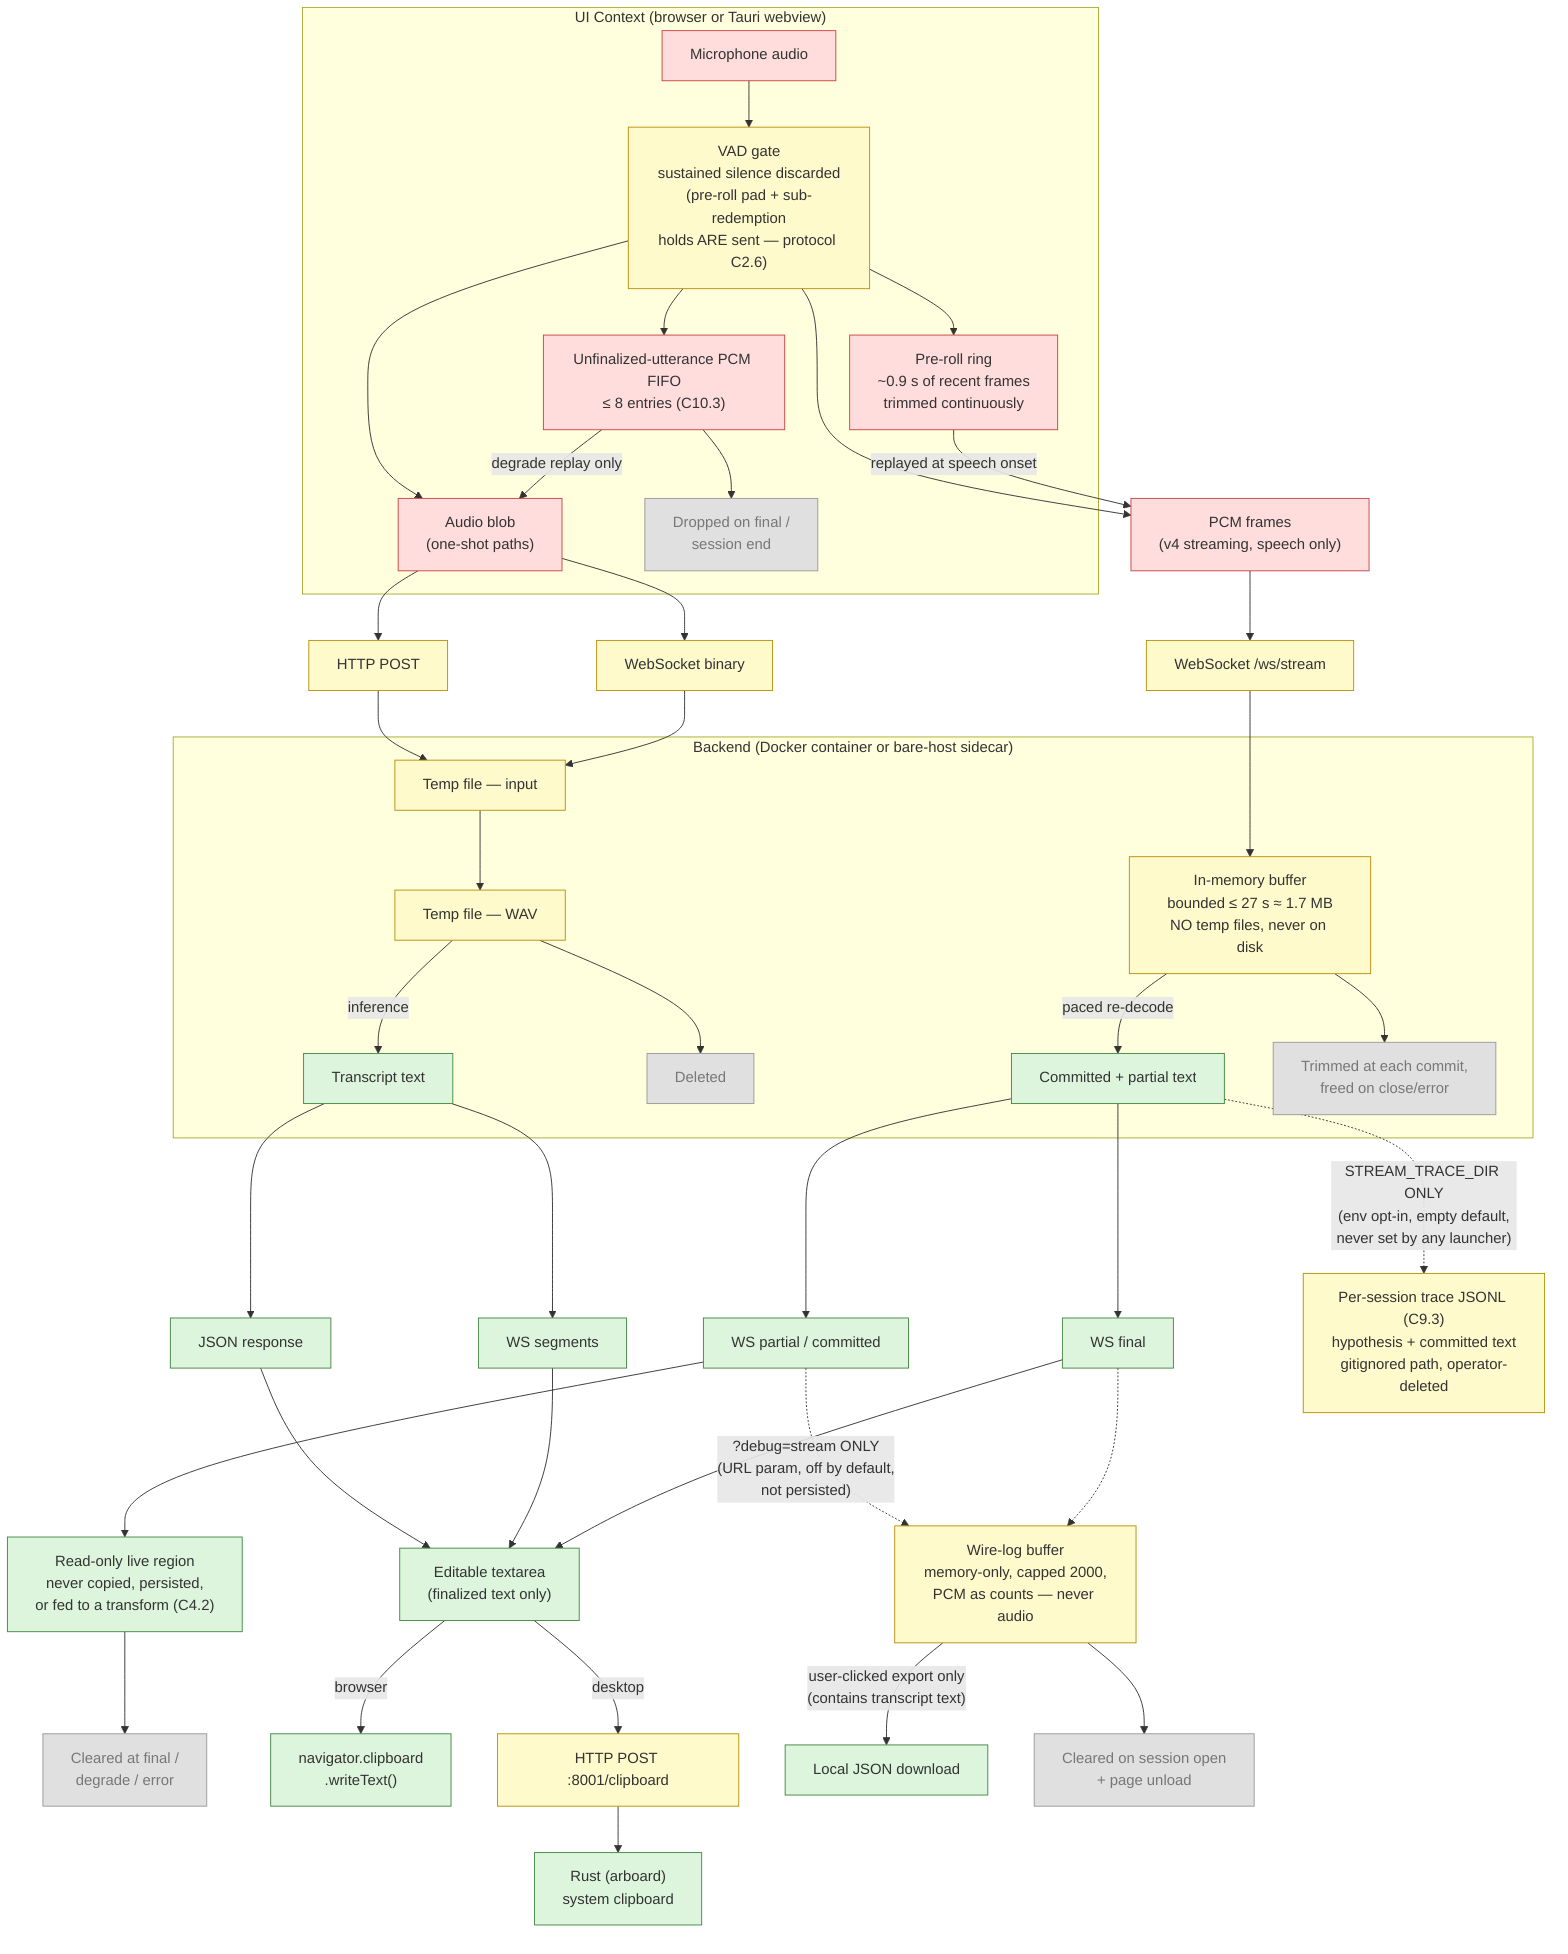
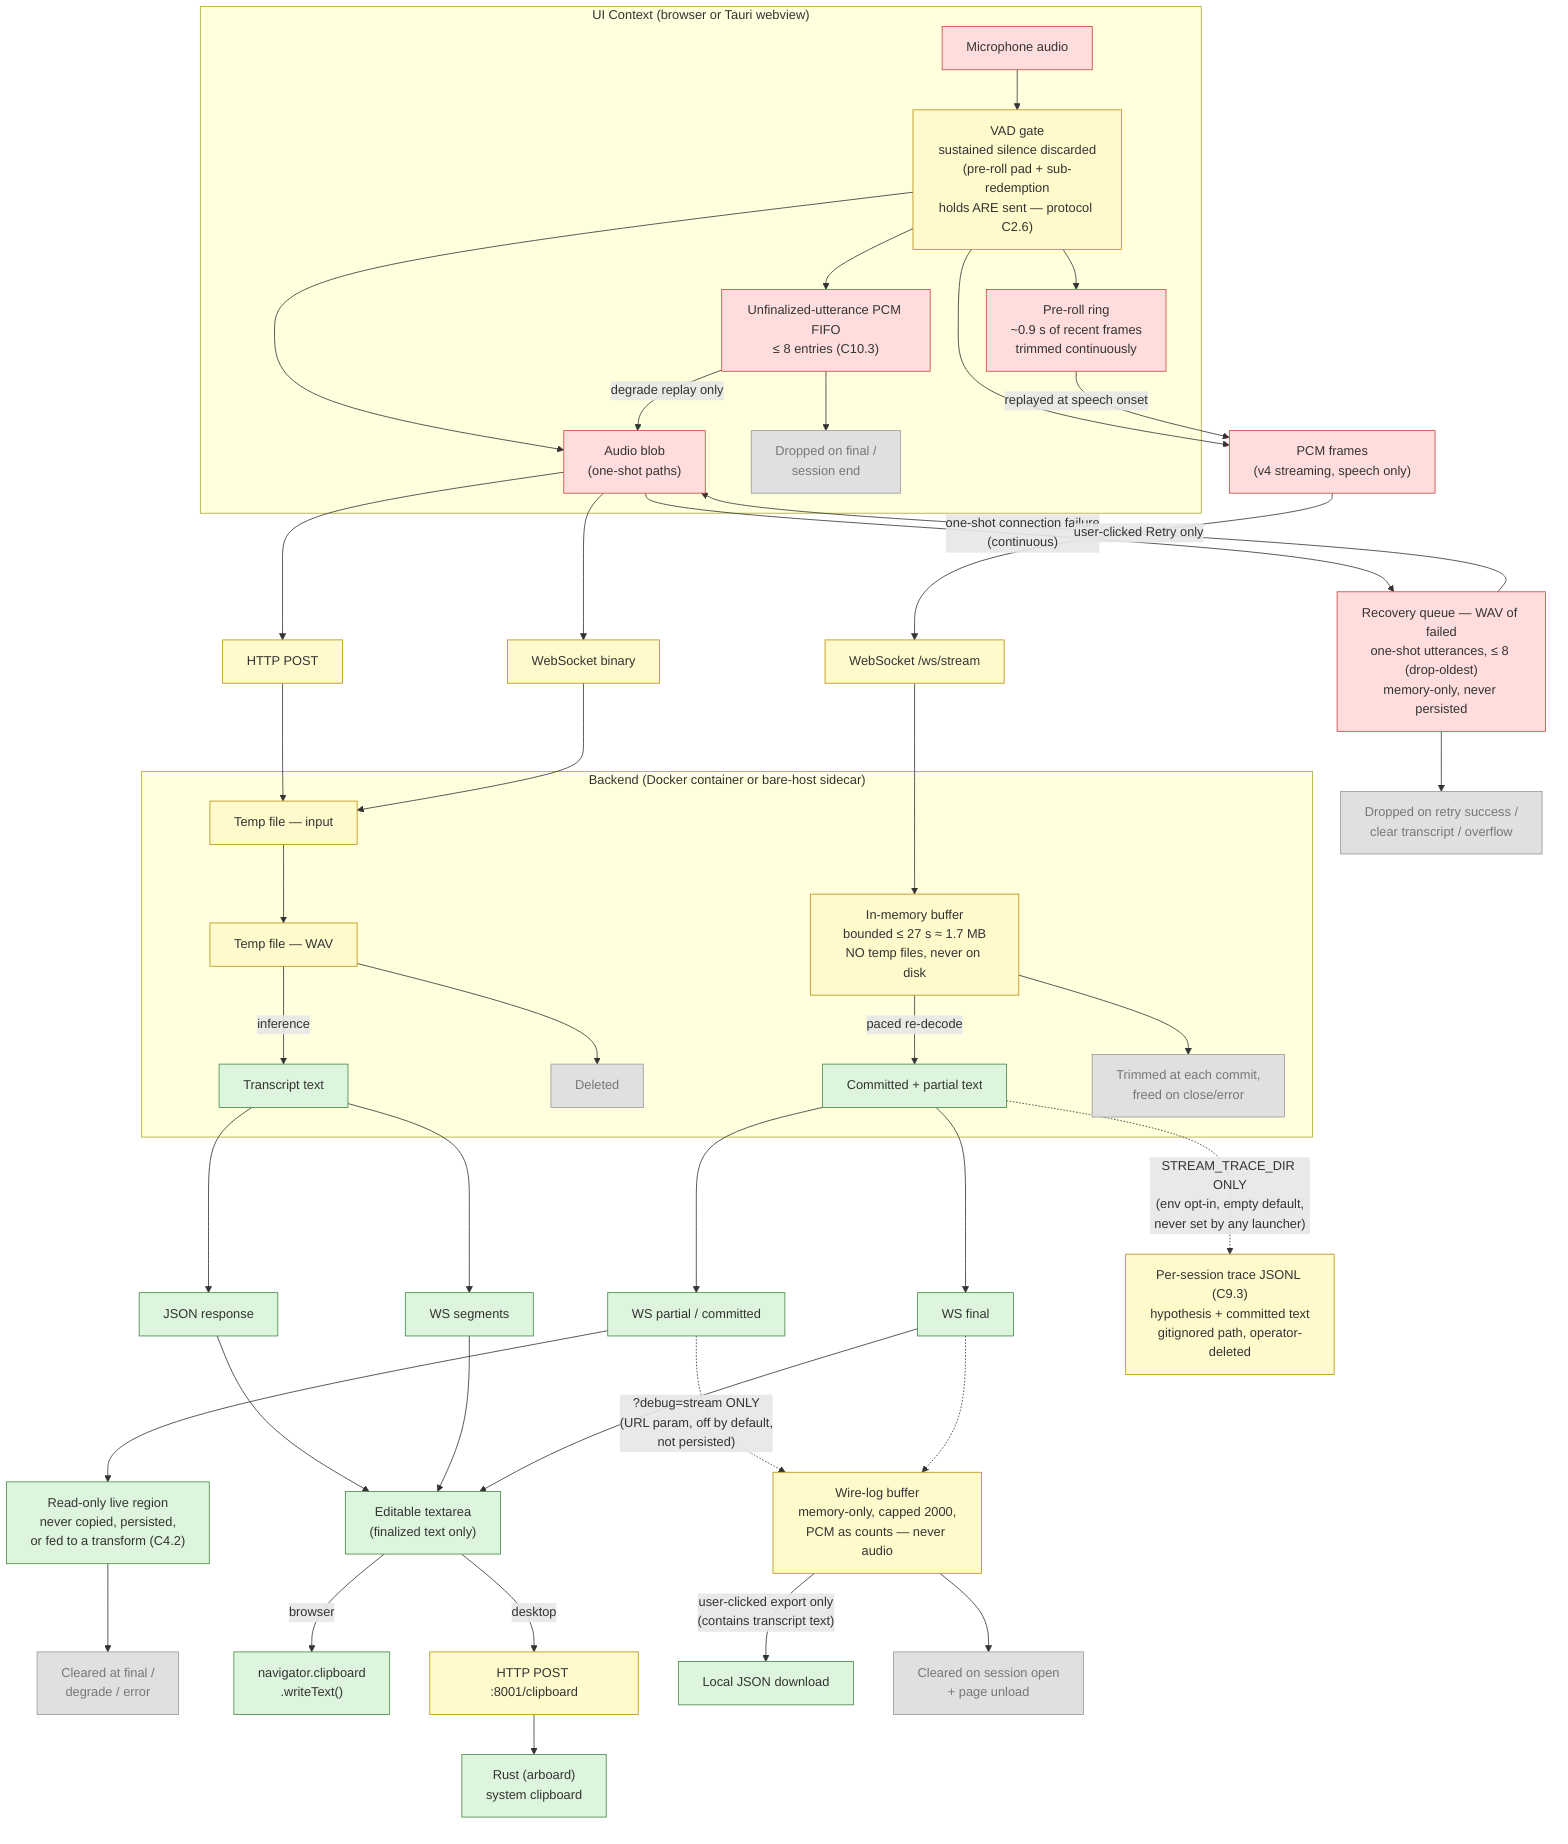
fix(web): recovery queue + retry affordance — no committed text lost on dead-server degrade
The one-shot replay failure branch now queues the utterance WAV (bounded ≤ 8
drop-oldest, same C10.3 cap; queue survives stop/start, empties on retry
success / clear / bound) instead of discarding it, surfaces a non-fatal error,
and returns to listening — 'error' stays reserved for application failures.
Manual retry replays in order; failures self-re-queue. Timestamp clamp stops a
retried old segment from regressing the paragraph-break ref. Diagrams updated
first per project rule (state-machine degrade/retry edges, privacy-data-flow
recovery-queue retention surface). 194→200 frontend tests; healthy-path
degrade pinned against duplication.

diff --git a/apps/web/src/app/App.tsx b/apps/web/src/app/App.tsx
@@ -87,6 +87,16 @@ export function App() {
   const speakingRef = useRef(false);
   const [liveCommitted, setLiveCommitted] = useState("");
   const [liveTail, setLiveTail] = useState("");
+  // Recovery queue (step-3 fix, 2026-08-04 review): WAV of utterances whose
+  // one-shot replay failed — the server may be dead, and this audio is the
+  // only vehicle for the text behind it. Same C10.3 bound as the pending
+  // FIFO (the FIFO is idle while degraded, so total retention stays ≤ 8).
+  // Nothing promotes into the transcript until a transcription succeeds.
+  const recoveryQueueRef = useRef<Array<{ blob: Blob; speechEndTime: number }>>([]);
+  const [recoveryCount, setRecoveryCount] = useState(0);
+  // Live isListening for callbacks that outlive their closure (a retry can
+  // complete after the VAD stopped — landing at "listening" then would lie).
+  const isListeningRef = useRef(false);
 
   // Stable ref to current transcript so "copy" inside
   // triggerTranscription's closure always reads the latest value.
@@ -234,8 +244,12 @@ export function App() {
       // Timestamp update runs after both command and non-command paths.
       // Stores the speech-end time of this segment so the next segment's
       // elapsed comparison measures the gap between when the user spoke,
-      // not between when the GPU finished.
-      lastSegmentTimestampRef.current = speechEndTime ?? Date.now();
+      // not between when the GPU finished. Clamped: a retried recovery
+      // segment carries an old timestamp and must not regress the ref (the
+      // next live utterance would see a spurious paragraph-break gap).
+      lastSegmentTimestampRef.current = Math.max(
+        lastSegmentTimestampRef.current, speechEndTime ?? Date.now()
+      );
 
       if (stateTransition === "none") return;
 
@@ -244,7 +258,10 @@ export function App() {
         stopRequestedRef.current = false;
         setState("done"); // drain complete — explicit stop
       } else if (append) {
-        setState("listening"); // normal cycle — mic stays open
+        // Normal cycle: mic stays open. A retry completing after the VAD
+        // stopped lands at done — "listening" would block the settings gear
+        // with no mic actually running.
+        setState(isListeningRef.current ? "listening" : "done");
       } else {
         setState("done"); // push-to-talk always lands at done
       }
@@ -315,9 +332,26 @@ export function App() {
                 setState("error");
               });
           } else {
-            // Continuous: same error will recur on retry — surface immediately
-            setError("Transcription connection failed");
-            setState("error");
+            // Continuous: queue the WAV for manual retry — against a dead
+            // server the replay has nowhere to land, and this audio is the
+            // only recovery vehicle for its text (step-3 gate line). Bounded
+            // drop-oldest like the C10.3 FIFO. Non-fatal: dictation continues.
+            const queue = recoveryQueueRef.current;
+            queue.push({ blob, speechEndTime: speechEndTime ?? Date.now() });
+            if (queue.length > MAX_PENDING_UTTERANCES) {
+              queue.shift();
+              console.error("[recovery] queue over bound — oldest utterance dropped");
+            }
+            setRecoveryCount(queue.length);
+            setError(
+              "Transcription connection failed — audio saved, retry when the server is back"
+            );
+            if (stopRequestedRef.current) {
+              stopRequestedRef.current = false;
+              setState("done"); // drain "completed" — the text is safe in the queue
+            } else {
+              setState(isListeningRef.current ? "listening" : "done");
+            }
           }
         },
         (detail) => {
@@ -531,6 +565,9 @@ export function App() {
       },
     });
 
+  // Keep the mirror in sync for callbacks that fire after closures go stale.
+  useEffect(() => { isListeningRef.current = isListening; });
+
   // Handle VAD errors
   useEffect(() => {
     if (vadError) {
@@ -576,6 +613,8 @@ export function App() {
       } else {
         // Fresh activation: a new session tries streaming again even after a
         // degraded previous activation (C10.1 — degrade is per session).
+        // recoveryQueueRef is deliberately NOT reset — it holds user speech,
+        // not activation state; it empties on retry success / clear / bound.
         streamDegradedRef.current = false;
         pendingUtterancesRef.current = [];
         outstandingFlushesRef.current = 0;
@@ -648,7 +687,26 @@ export function App() {
     });
     setTranscript("");
     setRawTranscript("");
+    // Clear is the explicit user-discard intent — the privacy-correct
+    // release point for retained recovery audio.
+    recoveryQueueRef.current = [];
+    setRecoveryCount(0);
     setState("idle");
+  }, []);
+
+  const handleRetryRecovery = useCallback(() => {
+    const entries = recoveryQueueRef.current;
+    if (entries.length === 0) return;
+    recoveryQueueRef.current = [];
+    setRecoveryCount(0);
+    setError("");
+    // Burst replay in order — completions arrive in server order (single
+    // GPU), the same assumption the degrade replay documents. A still-dead
+    // server sends every entry back through the failure branch, which
+    // re-queues them in order and re-surfaces the affordance.
+    for (const entry of entries) {
+      triggerTranscriptionRef.current(entry.blob, true, entry.speechEndTime);
+    }
   }, []);
 
   const handleToggleSettings = useCallback(() => {
@@ -759,6 +817,21 @@ export function App() {
       </div>
       <div className="main-area">
         {error && <p className="error">{error}</p>}
+        {recoveryCount > 0 && (
+          <div className="recovery-bar" data-testid="recovery-bar">
+            <span>
+              {recoveryCount} utterance{recoveryCount === 1 ? "" : "s"} awaiting
+              transcription
+            </span>
+            <button
+              data-testid="recovery-retry"
+              onClick={handleRetryRecovery}
+              disabled={state === "processing"}
+            >
+              Retry
+            </button>
+          </div>
+        )}
         <Transcript
           text={transcript}
           rawText={rawTranscript}

diff --git a/apps/web/tests/App.streaming.test.tsx b/apps/web/tests/App.streaming.test.tsx
@@ -90,7 +90,24 @@ vi.mock("../src/hooks/useVAD", () => ({
   ),
 }));
 
-const mockStreamTranscribeAudio = vi.fn(() => vi.fn());
+// Captured per-call one-shot callbacks so tests can drive success/failure
+// (existing tests only assert call counts — callbacks never auto-fire).
+interface CapturedStreamCall {
+  blob: Blob;
+  onSegment: (t: string) => void;
+  onComplete: (r: { raw: string; cleaned: string }) => void;
+  onConnectionFail: () => void;
+  onAppError: (d: string) => void;
+}
+const streamCalls: CapturedStreamCall[] = [];
+const mockStreamTranscribeAudio = vi.fn(
+  (blob: Blob, onSegment: (t: string) => void,
+   onComplete: (r: { raw: string; cleaned: string }) => void,
+   onConnectionFail: () => void, onAppError: (d: string) => void) => {
+    streamCalls.push({ blob, onSegment, onComplete, onConnectionFail, onAppError });
+    return vi.fn();
+  }
+);
 vi.mock("../src/services/api", () => ({
   streamTranscribeAudio: (...args: unknown[]) => mockStreamTranscribeAudio(...args),
   transcribeAudio: vi.fn(),
@@ -189,6 +206,7 @@ beforeEach(() => {
   localStorage.clear();
   localStorage.setItem("voice-scribe-recording-mode", "continuous");
   sessions.length = 0;
+  streamCalls.length = 0;
   sessionAge = 0;
   seq = 0;
   mockIsListening = false;
@@ -507,5 +525,138 @@ describe("App streaming — model selector guard", () => {
     const select = document.querySelector(".model-selector select") as HTMLSelectElement;
     expect(select.disabled).toBe(true);
     expect(select.title).toBe("Stop recording to change models");
+  });
+});
+
+// ---------------------------------------------------------------------------
+
+describe("App streaming — recovery queue (degrade with dead server)", () => {
+  it("queues the utterance non-fatally when the degrade replay fails", () => {
+    const entry = startContinuous();
+    speakUtterance(entry, 0); // FIFO entry + outstanding flush
+    act(() => {
+      entry.cb.onDegrade({ kind: "fatal_error", code: "session_timeout", detail: "x" });
+    });
+    expect(mockStreamTranscribeAudio).toHaveBeenCalledTimes(1); // FIFO replayed
+    act(() => {
+      streamCalls[0].onConnectionFail();
+    });
+    expect(screen.getByTestId("recovery-bar").textContent).toContain(
+      "1 utterance"
+    );
+    // No transcript mutation: the textarea either doesn't render yet or is empty.
+    const ta = screen.queryByRole("textbox") as HTMLTextAreaElement | null;
+    expect(ta?.value ?? "").toBe("");
+    expect(mockEmitRecordingState).toHaveBeenCalledWith("listening");
+    expect(mockEmitRecordingState).not.toHaveBeenCalledWith("error");
+  });
+
+  it("retry lands the utterance text exactly once and clears the bar", () => {
+    const entry = startContinuous();
+    speakUtterance(entry, 0);
+    act(() => {
+      entry.cb.onDegrade({ kind: "fatal_error", code: "session_timeout", detail: "x" });
+    });
+    act(() => {
+      streamCalls[0].onConnectionFail();
+    });
+    act(() => {
+      fireEvent.click(screen.getByTestId("recovery-retry"));
+    });
+    expect(mockStreamTranscribeAudio).toHaveBeenCalledTimes(2);
+    expect(streamCalls[1].blob).toBe(streamCalls[0].blob); // same retained WAV
+    act(() => {
+      streamCalls[1].onComplete({ raw: "hello world", cleaned: "Hello world." });
+    });
+    expect(getTextarea().value).toBe("Hello world.");
+    expect(screen.queryByTestId("recovery-bar")).toBeNull();
+  });
+
+  it("healthy-server degrade replays without a bar and without duplication", () => {
+    const entry = startContinuous();
+    speakUtterance(entry, 0);
+    act(() => {
+      entry.cb.onDegrade({ kind: "fatal_error", code: "session_timeout", detail: "x" });
+    });
+    act(() => {
+      streamCalls[0].onComplete({ raw: "all good", cleaned: "All good." });
+    });
+    expect(getTextarea().value).toBe("All good.");
+    expect(screen.queryByTestId("recovery-bar")).toBeNull();
+  });
+
+  it("bounds the queue at 8 with drop-oldest", () => {
+    const errSpy = vi.spyOn(console, "error").mockImplementation(() => {});
+    const entry = startContinuous();
+    act(() => {
+      entry.cb.onDegrade({ kind: "connect_failed" }); // FIFO empty — degrade only
+    });
+    for (let i = 0; i < 9; i++) {
+      act(() => {
+        capturedOnSpeechEnd?.(new Float32Array([0.1])); // degraded one-shot path
+      });
+      act(() => {
+        streamCalls[i].onConnectionFail();
+      });
+    }
+    expect(screen.getByTestId("recovery-bar").textContent).toContain(
+      "8 utterances"
+    );
+    expect(
+      errSpy.mock.calls.some((c) => String(c[0]).includes("[recovery]"))
+    ).toBe(true);
+  });
+
+  it("partial retry success re-queues only the failed remainder", () => {
+    const entry = startContinuous();
+    act(() => {
+      entry.cb.onDegrade({ kind: "connect_failed" });
+    });
+    for (let i = 0; i < 2; i++) {
+      act(() => {
+        capturedOnSpeechEnd?.(new Float32Array([0.1]));
+      });
+      act(() => {
+        streamCalls[i].onConnectionFail();
+      });
+    }
+    act(() => {
+      fireEvent.click(screen.getByTestId("recovery-retry"));
+    });
+    expect(mockStreamTranscribeAudio).toHaveBeenCalledTimes(4);
+    act(() => {
+      streamCalls[2].onComplete({ raw: "first", cleaned: "First." });
+    });
+    act(() => {
+      streamCalls[3].onConnectionFail();
+    });
+    expect(getTextarea().value).toBe("First.");
+    expect(screen.getByTestId("recovery-bar").textContent).toContain(
+      "1 utterance"
+    );
+  });
+
+  it("retry completing after the VAD stopped lands at done, not listening", () => {
+    const entry = startContinuous();
+    act(() => {
+      entry.cb.onDegrade({ kind: "connect_failed" });
+    });
+    act(() => {
+      capturedOnSpeechEnd?.(new Float32Array([0.1]));
+    });
+    act(() => {
+      streamCalls[0].onConnectionFail();
+    });
+    mockIsListening = false; // VAD stopped before the retry resolves
+    act(() => {
+      fireEvent.click(screen.getByTestId("recovery-retry"));
+    });
+    mockEmitRecordingState.mockClear();
+    act(() => {
+      streamCalls[1].onComplete({ raw: "late", cleaned: "Late." });
+    });
+    expect(getTextarea().value).toBe("Late.");
+    expect(mockEmitRecordingState).toHaveBeenLastCalledWith("done");
+    expect(mockEmitRecordingState).not.toHaveBeenCalledWith("listening");
   });
 });

diff --git a/apps/web/src/styles/index.css b/apps/web/src/styles/index.css
@@ -244,6 +244,25 @@ body {
   flex-shrink: 0;
 }
 
+.recovery-bar {
+  display: flex;
+  align-items: center;
+  justify-content: center;
+  gap: 0.75rem;
+  font-size: 0.8rem;
+  color: var(--recording);
+  padding: 0.4rem 0.75rem;
+  background: rgba(196, 75, 75, 0.08);
+  border: 1px solid rgba(196, 75, 75, 0.2);
+  border-radius: 4px;
+  flex-shrink: 0;
+}
+
+.recovery-bar button {
+  font-size: 0.8rem;
+  padding: 0.15rem 0.75rem;
+}
+
 /* --- Transcript ---------------------------------------------------- */
 
 .transcript {
